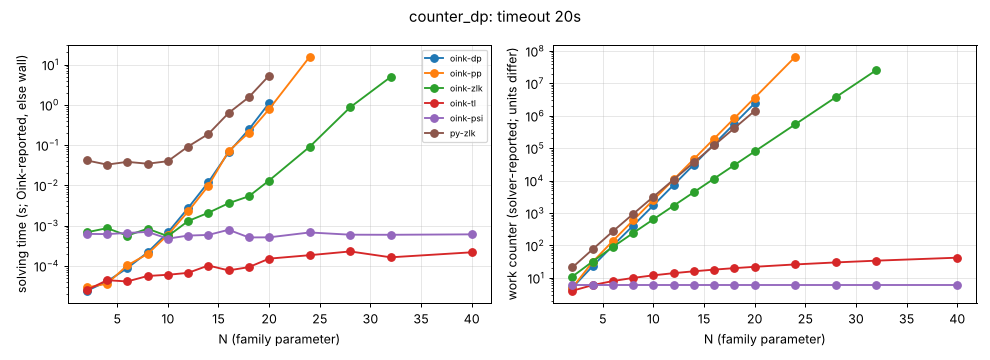
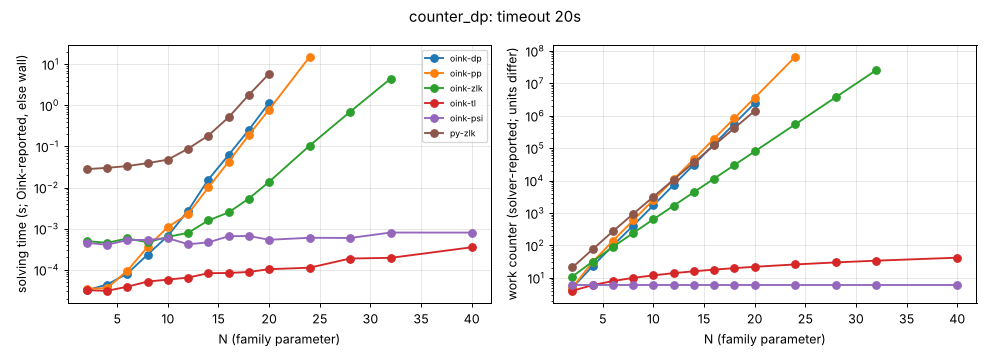
L-COMP: re-run results with strategy checks (in progress)
Claude-Session: https://claude.ai/code/session_014bbtNwaVKxFymHpXynjURn

diff --git a/experiments/hard-families/results/counter_dp.md b/experiments/hard-families/results/counter_dp.md
@@ -2,17 +2,17 @@ Family counter_dp; generator `../../tools/oink/build/counter_dp {N}`; timeout 20
 
 | N | n | m | d | oink-dp (promotions) | oink-pp (promotions) | oink-zlk (iterations) | oink-tl (iterations) | oink-psi (major iterations) | py-zlk (iterations) |
 |---|---|---|---|---|---|---|---|---|---|
-| 2 | 12 | 19 | 6 | 5 / 2.4e-05 | 5 / 2.9e-05 | 11 / 0.000681 | 4 / 2.5e-05 | 6 / 0.000622 | 21 / 0.0415 |
-| 4 | 20 | 33 | 8 | 23 / 4.1e-05 | 31 / 3.6e-05 | 32 / 0.000864 | 6 / 4.4e-05 | 6 / 0.000614 | 76 / 0.0327 |
-| 6 | 28 | 47 | 10 | 99 / 8.8e-05 | 138 / 0.000103 | 90 / 0.000563 | 8 / 4.1e-05 | 6 / 0.000657 | 273 / 0.0383 |
-| 8 | 36 | 61 | 12 | 410 / 0.000216 | 595 / 0.000197 | 242 / 0.000838 | 10 / 5.6e-05 | 6 / 0.000697 | 936 / 0.0344 |
-| 10 | 44 | 75 | 14 | 1730 / 0.000674 | 2541 / 0.000591 | 640 / 0.000545 | 12 / 6e-05 | 6 / 0.000474 | 3177 / 0.0398 |
-| 12 | 52 | 89 | 16 | 7353 / 0.00273 | 10841 / 0.00224 | 1682 / 0.0013 | 14 / 6.7e-05 | 6 / 0.000565 | 10760 / 0.0921 |
-| 14 | 60 | 103 | 18 | 31330 / 0.012 | 46263 / 0.00976 | 4410 / 0.00208 | 16 / 0.000102 | 6 / 0.000586 | 36413 / 0.189 |
-| 16 | 68 | 117 | 20 | 133664 / 0.0658 | 197445 / 0.0706 | 11552 / 0.00359 | 18 / 7.7e-05 | 6 / 0.000787 | 123196 / 0.626 |
-| 18 | 76 | 131 | 22 | 570435 / 0.244 | 842732 / 0.204 | 30250 / 0.00535 | 20 / 9.3e-05 | 6 / 0.000508 | 416781 / 1.55 |
-| 20 | 84 | 145 | 24 | 2434705 / 1.11 | 3597020 / 0.781 | 79202 / 0.0132 | 22 / 0.000151 | 6 / 0.000511 | 1409972 / 5.33 |
-| 24 | 100 | 173 | 28 | timeout | 65532657 / 15.5 | 542882 / 0.0906 | 26 / 0.000184 | 6 / 0.000675 | timeout |
-| 28 | 116 | 201 | 32 | skipped | timeout | 3720992 / 0.867 | 30 / 0.000228 | 6 / 0.000594 | skipped |
-| 32 | 132 | 229 | 36 | skipped | skipped | 25504082 / 4.92 | 34 / 0.000163 | 6 / 0.000591 | skipped |
-| 40 | 164 | 285 | 44 | skipped | skipped | timeout | 42 / 0.000217 | 6 / 0.000606 | skipped |
+| 2 | 12 | 19 | 6 | 5 / 3.2e-05 | 5 / 3.5e-05 | 11 / 0.000501 | 4 / 3.2e-05 | 6 / 0.000455 | 21 / 0.0281 |
+| 4 | 20 | 33 | 8 | 23 / 4.4e-05 | 31 / 3.6e-05 | 32 / 0.000454 | 6 / 3.1e-05 | 6 / 0.000407 | 76 / 0.0302 |
+| 6 | 28 | 47 | 10 | 99 / 8.1e-05 | 138 / 9.6e-05 | 90 / 0.00058 | 8 / 3.9e-05 | 6 / 0.000529 | 273 / 0.0333 |
+| 8 | 36 | 61 | 12 | 410 / 0.000236 | 595 / 0.000361 | 242 / 0.00047 | 10 / 5.2e-05 | 6 / 0.000536 | 936 / 0.0392 |
+| 10 | 44 | 75 | 14 | 1730 / 0.000671 | 2541 / 0.0011 | 640 / 0.000634 | 12 / 5.8e-05 | 6 / 0.00059 | 3177 / 0.0478 |
+| 12 | 52 | 89 | 16 | 7353 / 0.00276 | 10841 / 0.00229 | 1682 / 0.000796 | 14 / 6.5e-05 | 6 / 0.00042 | 10760 / 0.0883 |
+| 14 | 60 | 103 | 18 | 31330 / 0.0157 | 46263 / 0.0101 | 4410 / 0.00159 | 16 / 8.3e-05 | 6 / 0.000466 | 36413 / 0.184 |
+| 16 | 68 | 117 | 20 | 133664 / 0.062 | 197445 / 0.0427 | 11552 / 0.00249 | 18 / 8.4e-05 | 6 / 0.000658 | 123196 / 0.511 |
+| 18 | 76 | 131 | 22 | 570435 / 0.253 | 842732 / 0.189 | 30250 / 0.00541 | 20 / 8.9e-05 | 6 / 0.000666 | 416781 / 1.79 |
+| 20 | 84 | 145 | 24 | 2434705 / 1.15 | 3597020 / 0.789 | 79202 / 0.0138 | 22 / 0.000104 | 6 / 0.000539 | 1409972 / 5.87 |
+| 24 | 100 | 173 | 28 | timeout | 65532657 / 15.1 | 542882 / 0.104 | 26 / 0.000113 | 6 / 0.000603 | timeout |
+| 28 | 116 | 201 | 32 | skipped | timeout | 3720992 / 0.697 | 30 / 0.000189 | 6 / 0.000596 | skipped |
+| 32 | 132 | 229 | 36 | skipped | skipped | 25504082 / 4.44 | 34 / 0.000196 | 6 / 0.000808 | skipped |
+| 40 | 164 | 285 | 44 | skipped | skipped | timeout | 42 / 0.000354 | 6 / 0.000806 | skipped |

diff --git a/experiments/hard-families/results/counter_rr.md b/experiments/hard-families/results/counter_rr.md
@@ -2,17 +2,17 @@ Family counter_rr; generator `../../tools/oink/build/counter_rr {N}`; timeout 20
 
 | N | n | m | d | oink-rr (promotions) | oink-rrdp (promotions) | oink-zlk (iterations) | oink-tl (iterations) | oink-psi (major iterations) | py-zlk (iterations) |
 |---|---|---|---|---|---|---|---|---|---|
-| 2 | 8 | 16 | 4 | 2 / 2.9e-05 | 2 / 2.8e-05 | 3 / 0.000492 | 2 / 2.2e-05 | 6 / 0.000486 | 8 / 0.0304 |
-| 4 | 16 | 32 | 8 | 9 / 2.2e-05 | 8 / 3.4e-05 | 13 / 0.000533 | 2 / 2.7e-05 | 6 / 0.000653 | 36 / 0.0327 |
-| 6 | 24 | 48 | 12 | 27 / 3.4e-05 | 17 / 4.4e-05 | 41 / 0.000484 | 2 / 2.4e-05 | 6 / 0.000402 | 143 / 0.0355 |
-| 8 | 32 | 64 | 16 | 74 / 6.6e-05 | 29 / 7.1e-05 | 116 / 0.000631 | 2 / 4e-05 | 6 / 0.000557 | 542 / 0.0309 |
-| 10 | 40 | 80 | 20 | 197 / 0.000108 | 44 / 4.5e-05 | 314 / 0.000494 | 2 / 5e-05 | 6 / 0.000589 | 2010 / 0.0554 |
-| 12 | 48 | 96 | 24 | 519 / 0.000137 | 62 / 6.3e-05 | 834 / 0.000774 | 2 / 3.1e-05 | 6 / 0.000514 | 7376 / 0.0865 |
-| 14 | 56 | 112 | 28 | 1362 / 0.000523 | 83 / 7.7e-05 | 2197 / 0.000911 | 2 / 3.3e-05 | 6 / 0.000517 | 26927 / 0.113 |
-| 16 | 64 | 128 | 32 | 3569 / 0.000731 | 107 / 0.00018 | 5767 / 0.00155 | 2 / 3.8e-05 | 6 / 0.000482 | 98039 / 0.385 |
-| 18 | 72 | 144 | 36 | 9347 / 0.00186 | 134 / 0.000125 | 15115 / 0.00307 | 2 / 3.8e-05 | 6 / 0.000744 | 356449 / 1.22 |
-| 20 | 80 | 160 | 40 | 24474 / 0.0074 | 164 / 0.000255 | 39590 / 0.00817 | 2 / 4e-05 | 6 / 0.000508 | 1294985 / 4.08 |
-| 24 | 96 | 192 | 48 | 167759 / 0.0337 | 233 / 0.000204 | 271428 / 0.062 | 2 / 6.6e-05 | 6 / 0.000561 | timeout |
-| 28 | 112 | 224 | 56 | 1149849 / 0.259 | 314 / 0.000375 | 1860481 / 0.375 | 2 / 8.3e-05 | 6 / 0.000465 | skipped |
-| 32 | 128 | 256 | 64 | 7881194 / 1.75 | 407 / 0.000382 | 12752024 / 3.23 | 2 / 4.1e-05 | 6 / 0.00059 | skipped |
-| 40 | 160 | 320 | 80 | timeout | 629 / 0.00148 | timeout | 2 / 4.8e-05 | 6 / 0.000822 | skipped |
+| 2 | 8 | 16 | 4 | 2 / 2e-05 | 2 / 2.6e-05 | 3 / 0.000335 | 2 / 3e-05 | 6 / 0.000369 | 8 / 0.0299 |
+| 4 | 16 | 32 | 8 | 9 / 2.5e-05 | 8 / 2.3e-05 | 13 / 0.000426 | 2 / 2.9e-05 | 6 / 0.000403 | 36 / 0.0352 |
+| 6 | 24 | 48 | 12 | 27 / 2.7e-05 | 17 / 4.8e-05 | 41 / 0.00039 | 2 / 3.4e-05 | 6 / 0.000651 | 143 / 0.0328 |
+| 8 | 32 | 64 | 16 | 74 / 3.9e-05 | 29 / 3.9e-05 | 116 / 0.000443 | 2 / 2.8e-05 | 6 / 0.000416 | 542 / 0.033 |
+| 10 | 40 | 80 | 20 | 197 / 6.6e-05 | 44 / 4.7e-05 | 314 / 0.000439 | 2 / 2.9e-05 | 6 / 0.000403 | 2010 / 0.0361 |
+| 12 | 48 | 96 | 24 | 519 / 0.000126 | 62 / 8.4e-05 | 834 / 0.000538 | 2 / 3.4e-05 | 6 / 0.000381 | 7376 / 0.0651 |
+| 14 | 56 | 112 | 28 | 1362 / 0.000276 | 83 / 7.5e-05 | 2197 / 0.00119 | 2 / 3.2e-05 | 6 / 0.000409 | 26927 / 0.15 |
+| 16 | 64 | 128 | 32 | 3569 / 0.00134 | 107 / 0.000101 | 5767 / 0.00152 | 2 / 3.8e-05 | 6 / 0.000506 | 98039 / 0.354 |
+| 18 | 72 | 144 | 36 | 9347 / 0.00186 | 134 / 0.000106 | 15115 / 0.00331 | 2 / 4.5e-05 | 6 / 0.000423 | 356449 / 1.29 |
+| 20 | 80 | 160 | 40 | 24474 / 0.00854 | 164 / 0.000246 | 39590 / 0.00989 | 2 / 6.1e-05 | 6 / 0.000575 | 1294985 / 4.42 |
+| 24 | 96 | 192 | 48 | 167759 / 0.0329 | 233 / 0.000223 | 271428 / 0.0524 | 2 / 5.6e-05 | 6 / 0.000626 | timeout |
+| 28 | 112 | 224 | 56 | 1149849 / 0.24 | 314 / 0.00251 | 1860481 / 0.517 | 2 / 5e-05 | 6 / 0.000686 | skipped |
+| 32 | 128 | 256 | 64 | 7881194 / 1.73 | 407 / 0.000384 | 12752024 / 2.71 | 2 / 4.8e-05 | 6 / 0.000714 | skipped |
+| 40 | 160 | 320 | 80 | timeout | 629 / 0.000809 | timeout | 2 / 5.2e-05 | 6 / 0.000673 | skipped |
